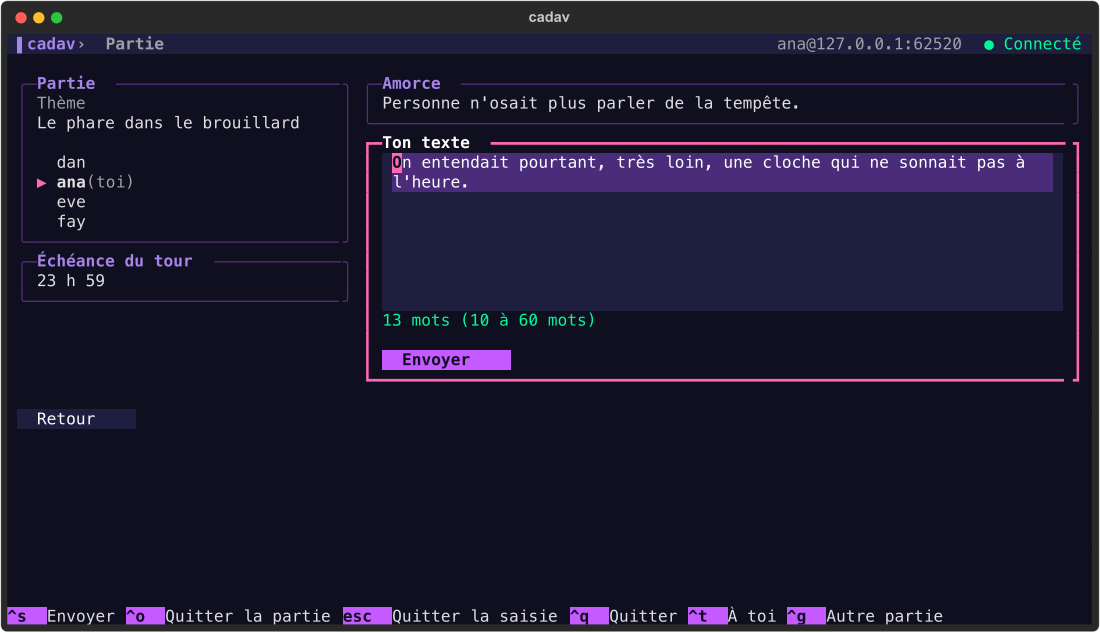
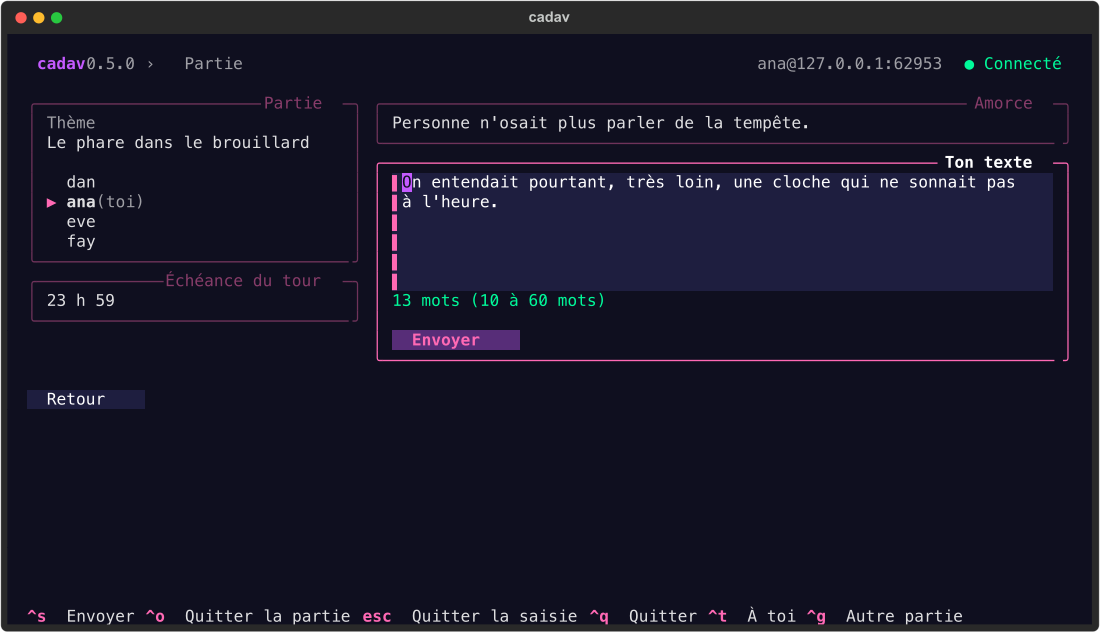
Habillage au plus près de Posting : en-tête aéré, cadres fins à titre à droite, barre de focus, pied de page discret, curseur et sélection

Changed region(s): [[0.0, 0.03, 1.0, 0.6303], [0.0, 0.9605, 0.8655, 0.9905], [0.0, 0.6003, 0.1545, 0.6904]]

diff --git a/cadav/client/theme.py b/cadav/client/theme.py
@@ -35,8 +35,8 @@ class Palette:
     warning: str
     error: str
     highlight: str  # selected row of a list that does not have the focus
-    focus: str  # background of the element that has the focus (text is drawn in `background`)
-    editing: str  # background of a field being edited
+    focus: str  # "block cursor": background of the selected row, button or choice (text in `background`)
+    editing: str  # background of a field being edited (the focused field only gets a bar on its left)
 
 
 # Posting's default theme, "galaxy": the colours below are those of its themes.py (primary, secondary,
@@ -59,8 +59,8 @@ GALAXY = Palette(
     warning="#FFD700",
     error="#FF4500",
     highlight="#4b2c7a",
-    focus="#FF69B4",  # the accent
-    editing="#ffffff",
+    focus="#C45AFF",  # the primary: Posting's "block cursor" colour
+    editing="#2D2B55",  # the panel colour
 )
 
 # Solarized (Ethan Schoonover), dark variant, canonical values.
@@ -81,8 +81,8 @@ SOLARIZED_DARK = Palette(
     warning="#b58900",
     error="#dc322f",
     highlight="#0b4452",
-    focus="#2aa198",
-    editing="#eee8d5",
+    focus="#268bd2",
+    editing="#0b3f4d",
 )
 
 PALETTES = {p.name: p for p in (GALAXY, SOLARIZED_DARK)}
@@ -123,8 +123,8 @@ def build_theme(p: Palette) -> Theme:
             "cadav-border-dim": p.border_dim,
             "border": p.primary,
             "border-blurred": p.border_dim,
-            "footer-key-foreground": p.background,
-            "footer-key-background": p.primary,
+            "footer-key-foreground": p.accent,
+            "footer-key-background": "transparent",
             "footer-description-foreground": "auto 87%" if p.foreground is None else p.foreground,
             "footer-background": "transparent",
             "input-cursor-background": p.primary,
@@ -143,51 +143,50 @@ def chip(label: str, color: str, fg: str | None = None) -> Text:
 APP_CSS = """
 Screen { background: $background; color: $cadav-text; }
 
-/* top bar and footer */
-TopBar { height: 1; dock: top; background: $surface; padding: 0 1; }
-TopBar #brand { width: 1fr; color: $secondary; text-style: bold; }
+/* header (airy, like Posting's) and footer (discreet: accent keys on a transparent bar) */
+TopBar { height: 3; dock: top; padding: 1 3; background: $background; }
+TopBar #brand { width: 1fr; color: $primary; }
 TopBar #status { width: auto; color: $cadav-muted; }
-Footer { background: $footer-background; }
+Footer { background: $footer-background; padding-left: 2; }
 FooterKey { background: $footer-background; }
-FooterKey .footer-key--key { background: $primary; color: $cadav-on-color; text-style: bold; }
-FooterKey .footer-key--description { color: $cadav-text; background: $footer-background; }
+FooterKey .footer-key--key { color: $accent; text-style: bold; }
+FooterKey .footer-key--description { color: $cadav-text; }
 
-/* panels: rounded border with the title inside; heavy accent border when they hold the focus */
+/* panels: thin rounded border in the accent colour, title on the right in the same colour;
+   the panel that holds the focus gets a full-strength border and a bold white title */
 .pane {
-    border: round $cadav-border-dim;
-    border-title-color: $secondary;
-    border-title-style: bold;
+    border: round $accent 40%;
+    border-title-color: $accent 50%;
+    border-title-align: right;
     border-subtitle-color: $cadav-muted;
     background: $background;
     padding: 0 1;
     height: auto;
 }
-.pane:focus-within { border: heavy $accent; border-title-color: $cadav-strong; }
+.pane:focus-within { border: round $accent 100%; border-title-color: $cadav-strong; border-title-style: bold; }
 
-/* lists: the row that has the focus is drawn in inverse video */
+/* lists: the selected row is the "block cursor" (primary background) when the list has the focus */
 OptionList { border: none; background: transparent; padding: 0; height: auto; min-height: 3; max-height: 12; }
 OptionList:focus { border: none; background: transparent; }
 OptionList > .option-list--option { padding: 0 1; color: $cadav-text; }
 OptionList > .option-list--option-highlighted { background: $cadav-highlight; color: $cadav-strong; text-style: none; }
-OptionList:focus > .option-list--option-highlighted { background: $cadav-focus; color: $cadav-on-color; text-style: none; }
+OptionList:focus > .option-list--option-highlighted { background: $cadav-focus; color: $cadav-on-color; text-style: bold; }
 OptionList > .option-list--option-disabled { color: $cadav-muted; }
 
-/* one-line form fields */
+/* one-line form fields: a thin bar on the left marks the focused one */
 .frow { height: 1; margin-bottom: 1; }
 .flabel { width: 18; color: $cadav-muted; }
 Input { border: none; height: 1; padding: 0 1; background: $surface; width: 1fr; color: $cadav-strong; }
-Input:focus { border: none; background: $cadav-focus; color: $cadav-on-color; text-style: bold; }
+Input:focus { border: none; border-left: outer $accent; padding-left: 0; background: $surface; }
 Input.-invalid, Input.-invalid:focus { border: none; }
 Input > .input--placeholder { color: $cadav-muted; }
-NavInput:focus > .input--placeholder { color: $cadav-on-color 75%; }
 NavInput > .input--cursor { background: transparent; color: $cadav-strong; text-style: none; }
-NavInput:focus > .input--cursor { background: transparent; color: $cadav-on-color; text-style: bold; }
-NavInput.-editing, NavInput.-editing:focus { background: $cadav-editing; color: $cadav-on-color; text-style: none; }
-NavInput.-editing > .input--cursor { background: $cadav-on-color; color: $cadav-editing; text-style: bold; }
+NavInput.-editing, NavInput.-editing:focus { background: $cadav-editing; border-left: outer $accent; padding-left: 0; }
+NavInput.-editing > .input--cursor { background: $input-cursor-background; color: $cadav-on-color; text-style: bold; }
 Select { height: 1; width: 1fr; }
 Select > SelectCurrent { border: none; height: 1; padding: 0 1; background: $surface; color: $cadav-strong; }
 Select:focus > SelectCurrent { border: none; background: $cadav-focus; color: $cadav-on-color; text-style: bold; }
-SelectCurrent .arrow { color: $cadav-muted; }
+SelectCurrent .arrow { color: $text-disabled; }
 Select:focus > SelectCurrent .arrow { color: $cadav-on-color; }
 SelectOverlay { border: round $accent; background: $surface; color: $cadav-text; }
 
@@ -195,20 +194,18 @@ SelectOverlay { border: round $accent; background: $surface; color: $cadav-text;
 Button { min-width: 0; height: 1; border: none; padding: 0 2; margin-right: 1; background: $surface; color: $cadav-strong; text-style: none; }
 Button:hover { background: $cadav-highlight; }
 Button:focus { background: $cadav-focus; color: $cadav-on-color; text-style: bold; }
-Button.-primary { background: $primary; color: $cadav-on-color; text-style: bold; }
-Button.-primary:hover { background: $secondary; }
-Button.-primary:focus { background: $cadav-focus; }
+Button.-primary { background: $primary 40%; color: $accent; text-style: bold; }
+Button.-primary:hover { background: $primary 60%; }
+Button.-primary:focus { background: $cadav-focus; color: $cadav-on-color; }
 Button.-warning { background: $surface; color: $warning; }
 Button.-warning:focus { background: $cadav-focus; color: $cadav-on-color; }
-Button:disabled { opacity: 0.45; }
+Button:disabled { opacity: 0.4; }
 .buttons { height: 1; margin-top: 1; }
 
 /* multi-line text */
 TextArea { border: none; background: $surface; color: $cadav-strong; padding: 0 1; }
-TextArea:focus { border: none; background: $surface; }
-TextArea > .text-area--cursor { background: $cadav-focus; color: $cadav-on-color; text-style: bold; }
-TextArea > .text-area--cursor-line { background: $cadav-highlight; }
-TextArea > .text-area--selection { background: $primary 50%; }
+TextArea:focus { border: none; border-left: outer $accent; padding-left: 0; background: $surface; }
+TextArea > .text-area--cursor-line { background: $surface; }
 TextArea > .text-area--placeholder { color: $cadav-muted; }
 
 .muted { color: $cadav-muted; }

diff --git a/cadav/client/screens.py b/cadav/client/screens.py
@@ -20,6 +20,7 @@ from cadav.client.logic import (
     turn_position,
     word_status,
 )
+from cadav import __version__
 from cadav.client import export
 from cadav.client.widgets import NavInput, NavOptionList, NavScroll, NavSelect
 from cadav.client.theme import chip, colors
@@ -64,7 +65,7 @@ class TopBar(Horizontal):
     def refresh_bar(self) -> None:
         app = self.app
         self.query_one("#brand", Static).update(
-            Text.assemble(("▌cadav", "bold"), (f"  ›  {self.place}", colors.muted))
+            Text.assemble(("cadav", "bold"), (f"\u00a0{__version__}", colors.muted), (f"\u00a0\u00a0\u00a0›\u00a0\u00a0\u00a0{self.place}", colors.muted))
         )
         dot, color, label = state_text(app.status)
         server = app.config.url.split("://", 1)[-1]
@@ -186,10 +187,10 @@ class LobbyScreen(Screen):
         Binding("ctrl+k", "focus_code", "Code"),
     ]
     CSS = """
-    #lobby-body { height: auto; padding: 1 1 0 1; }
+    #lobby-body { height: auto; padding: 0 2; }
     #mine-pane, #public-pane { width: 1fr; height: auto; max-height: 100%; }
     #mine-pane { margin-right: 1; }
-    #join-pane { margin: 1 1 0 1; height: auto; }
+    #join-pane { margin: 1 2 0 2; height: auto; }
     #join-pane Input { width: 24; margin-right: 1; }
     #join-pane .actions { width: 1fr; height: 1; align-horizontal: right; }
     """
@@ -280,7 +281,7 @@ class CreateScreen(Screen):
         Binding("escape", "back", "Annuler"),
     ]
     CSS = """
-    #create-body { height: auto; padding: 1 1 0 1; }
+    #create-body { height: auto; padding: 0 2; }
     #form-pane, #rules-pane { width: 1fr; height: auto; }
     #form-pane { margin-right: 1; }
     #form-error { height: auto; }
@@ -385,10 +386,10 @@ class WaitingScreen(Screen):
         Binding("escape", "back", "Retour"),
     ]
     CSS = """
-    #waiting-body { height: auto; padding: 1 1 0 1; }
+    #waiting-body { height: auto; padding: 0 2; }
     #left, #right { width: 1fr; height: auto; }
     #left { margin-right: 1; }
-    #waiting-actions { margin: 1 1 0 1; }
+    #waiting-actions { margin: 1 2 0 2; }
     #code-line { text-align: center; padding: 1 0; }
     """
 
@@ -515,12 +516,12 @@ class GameScreen(Screen):
         Binding("escape", "back", "Retour"),
     ]
     CSS = """
-    #game-body { height: auto; padding: 1 1 0 1; }
+    #game-body { height: auto; padding: 0 2; }
     #side { width: 34; height: auto; margin-right: 1; }
     #main { width: 1fr; height: auto; }
-    #draft { height: 8; }
+    #draft { height: 6; }
     #counter { height: 1; margin-bottom: 1; }
-    #game-actions { margin: 1 1 0 1; }
+    #game-actions { margin: 1 2 0 2; }
     """
 
     def __init__(self, game_id: str) -> None:
@@ -712,11 +713,11 @@ class FinalScreen(Screen):
         Binding("escape", "back", "Retour"),
     ]
     CSS = """
-    #final-body { height: 1fr; padding: 1 1 0 1; }
+    #final-body { height: 1fr; padding: 0 2; }
     #final-side { width: 34; height: auto; margin-right: 1; }
     #final-main { width: 1fr; height: 1fr; }
     #story-scroll { height: 1fr; }
-    #save-pane { margin: 1 1 0 1; height: auto; }
+    #save-pane { margin: 1 2 0 2; height: auto; }
     #save-pane .frow { margin-bottom: 0; }
     #final-actions { height: 1; margin-top: 1; }
     """

diff --git a/cahier-des-charges.md b/cahier-des-charges.md
@@ -1,4 +1,4 @@
-# cadav, cadavre exquis en terminal — Cahier des charges v1 (révision 12)
+# cadav, cadavre exquis en terminal — Cahier des charges v1 (révision 13)
 
 ## 1. Objectif
 Jeu de cadavre exquis textuel multijoueur, joué dans le terminal via une TUI. Un serveur central gère le lobby et toutes les parties. Les joueurs s'inscrivent (très léger), créent ou rejoignent des parties en attente de joueurs, et écrivent à tour de rôle une histoire commune.
@@ -176,7 +176,7 @@ Notifications push (ntfy.sh ou webhook), i18n. Idées plus lointaines : mode gui
 - Salle d'attente : code, joueurs (♛ = hôte), réglages, prochaine étape. `Ctrl+L` lance (hôte, 3 joueurs minimum), `Ctrl+O` quitte la partie, `Échap` revient au lobby.
 - Les captures du README se régénèrent avec `scripts/screenshots.py` (serveur jetable + pilote de test Textual + `rsvg-convert`).
 
-## 20. Navigation clavier, installation (révision 12)
+## 20. Navigation clavier, installation (révision 13)
 - `cadav/client/widgets.py` : `NavInput` (champ à deux modes), `NavSelect` (choix : seuls `Entrée` et `Espace` l'ouvrent, `↑` `↓` ne l'ouvrent plus) et `NavOptionList` (liste qui passe le focus à l'élément voisin à ses extrémités, `Espace` comme `Entrée`). Les touches de navigation globales (`↑` `←` précédent, `↓` `→` suivant, `Tab`) sont des liaisons de l'application ; un menu ouvert ou un champ en cours de modification les reçoit en premier.
 - Hors modification, `NavInput` ne consomme ni les flèches ni `Espace` (voir §21 pour la saisie directe). En modification, `↑` et `↓` sont sans effet, `←` `→` déplacent le curseur, un clic entre dans le champ, et perdre le focus valide la saisie.
 - `Entrée` dans un champ ne fait que valider le champ (sauf le champ « code » du lobby, qui rejoint la partie). Sur l'écran de connexion, on valide la connexion avec le bouton « Entrer ».
@@ -184,10 +184,10 @@ Notifications push (ntfy.sh ou webhook), i18n. Idées plus lointaines : mode gui
 - Le paquet Python s'appelle `cadav/` (renommé depuis `cadavre/`). La commande est installable globalement : `uv tool install --editable .` (ou `pipx install --editable .`) place `cadav` dans `~/.local/bin`.
 - Données du serveur par défaut : `$XDG_DATA_HOME/cadav` ou `~/.local/share/cadav` (et non plus `./data`), pour que `cadav serve` se comporte de la même façon quel que soit le dossier courant.
 
-## 21. Palette, focus, saisie directe (révision 12)
+## 21. Palette, focus, saisie directe (révision 13)
 - Palette par défaut : « galaxy », le thème de base de Posting repris sans modification (fichier `themes.py` de Posting) : primaire `#C45AFF`, secondaire `#a684e8`, avertissement `#FFD700`, erreur `#FF4500`, succès `#00FA9A`, accent `#FF69B4`, fond `#0F0F1F`, surface `#1E1E3F`, panneau `#2D2B55`, pied de page transparent, curseur de saisie `#C45AFF`. Pas de couleur de texte imposée : Textual la calcule, comme pour Posting (`auto 87 %`). Les nuances propres à cadav (gris du texte secondaire, ligne sélectionnée `#4b2c7a`, bordure atténuée, blanc d'édition) sont dérivées de ces couleurs. Option : `solarized-dark` (accent orange Solarized `#cb4b16`). Choix par `cadav play --theme …` ou par la clé `theme` de `config.json`.
 - La feuille de style n'emploie que des variables de thème (`$accent`, `$cadav-focus`, `$cadav-editing`…) ; les styles Rich des écrans lisent la palette courante (`theme.colors`).
-- Focus : l'élément qui a le focus est en vidéo inverse (fond rose d'accentuation, texte de la couleur du fond, rapport de contraste d'environ 7:1 avec « galaxy ») ; son panneau a une bordure épaisse rose et un titre blanc ; la ligne sélectionnée d'une liste sans focus est en violet foncé ; un champ en cours de modification est blanc, curseur inversé. Le second texte des lignes de liste n'est jamais grisé, pour rester lisible en vidéo inverse.
+- Focus (repris du CSS de Posting, `posting.scss`) : panneaux `border: round $accent 40 %`, titre à droite en `$accent 50 %` (même couleur que le cadre) ; le panneau qui contient le focus passe à `round $accent 100 %` (toujours un cadre fin) avec un titre blanc gras. Champs et zones de texte : barre `outer $accent` sur le bord gauche quand ils ont le focus ; en modification, fond `$panel` et curseur plein (`input-cursor-background` = primaire, comme dans le thème galaxy). Ligne de liste, choix et bouton sélectionnés : « block cursor » = fond primaire, texte de la couleur du fond, gras ; ligne sélectionnée d'une liste sans focus : violet foncé `#4b2c7a`.
 - Raccourcis : Lobby `Ctrl+N` (nouvelle partie), `Ctrl+K` (code) ; Création `Ctrl+S` ; Salle d'attente `Ctrl+L` (lancer), `Ctrl+O` (quitter la partie) ; partout `Ctrl+Q`, `Échap` pour revenir. Les lettres sont donc toujours du texte.
 - Saisie directe : sur un `NavInput` qui n'est pas en modification, un caractère imprimable (sauf Espace) entre en modification, vide le champ et s'y inscrit ; `Échap` rétablit la valeur d'avant. Sur un `NavSelect` fermé, taper une lettre ou un chiffre (accumulés pendant 1 s) choisit la première option correspondante. Dans le menu ouvert, `Espace` valide comme `Entrée`.
 
@@ -210,3 +210,10 @@ Notifications push (ntfy.sh ou webhook), i18n. Idées plus lointaines : mode gui
 - Raccourcis : `Ctrl+S` enregistre, `Ctrl+Y` copie, `Échap` revient au lobby. `Ctrl+G` ignore les parties terminées.
 - Paquet : nom `cadav`, version unique dans `cadav/__version__` (0.5.0), `cadav --version`, métadonnées (`readme`, URLs, classifiers). Installation : `pipx install git+https://github.com/charlescoiffier/cadav` (ou `uv tool install`). Pas de publication sur PyPI à ce stade, ni de licence choisie.
 - CI : après les tests, un job construit la roue, l'installe dans un environnement vierge et lance `cadav --version`, `cadav serve --help` et `cadav play --help` ; la roue est gardée 7 jours comme artefact.
+
+## 24. Fidélité à Posting (révision 13)
+Relevé sur le dépôt de Posting (`posting.scss`, `app.py`, `widgets/select.py`, `themes.py`) et sur une capture de l'application :
+- En-tête : `padding: 1 3` (trois lignes), nom en gras et version en atténué, `utilisateur@hôte` à droite en atténué. Chez cadav : `cadav <version> › <écran>` à gauche, `pseudo@serveur ● état` à droite.
+- Pied de page : sans fond (transparent), `padding-left: 2`, touches en couleur d'accent et en gras, descriptions en texte normal ; pas de palette de commandes.
+- Choix (`Select`) : `Entrée`, `Espace` ouvrent ; `↑` `↓` déplacent le focus d'un champ à l'autre ; dans le menu ouvert `Entrée` et `Espace` valident. C'est le comportement de `PostingSelect` / `PostingSelectOverlay`, déjà celui de cadav.
+- Corps des écrans : marges latérales de 2 colonnes.

diff --git a/README.md b/README.md
@@ -91,9 +91,11 @@ Tout se fait sans souris, avec deux modes :
   annule. Dans un choix ouvert, `↑` `↓` parcourent les options, `Entrée` ou `Espace` valident et `Échap` referme sans rien
   changer ; sur un choix fermé, taper une lettre ou un chiffre saute à l'option correspondante.
 
-Les raccourcis généraux affichés en bas de la fenêtre utilisent tous `Ctrl`, pour ne jamais gêner la saisie. L'élément qui a
-le focus est dessiné en couleur pleine (le rose d'accentuation du thème), son panneau reçoit une bordure épaisse rose, et un champ en cours de
-modification passe en blanc.
+Les raccourcis généraux affichés en bas de la fenêtre utilisent tous `Ctrl`, pour ne jamais gêner la saisie. Comme dans
+Posting, le panneau qui a le focus garde un cadre fin mais pleinement coloré (les autres sont atténués) et son titre passe
+en blanc gras ; un champ ou une zone de texte focalisés ont une barre rose sur leur bord gauche (le champ en cours de
+modification prend un fond plus clair et un curseur plein) ; la ligne, le bouton ou le choix sélectionnés sont en couleur
+pleine (le violet du thème).
 
 | Écran | Touches | Effet |
 |---|---|---|
